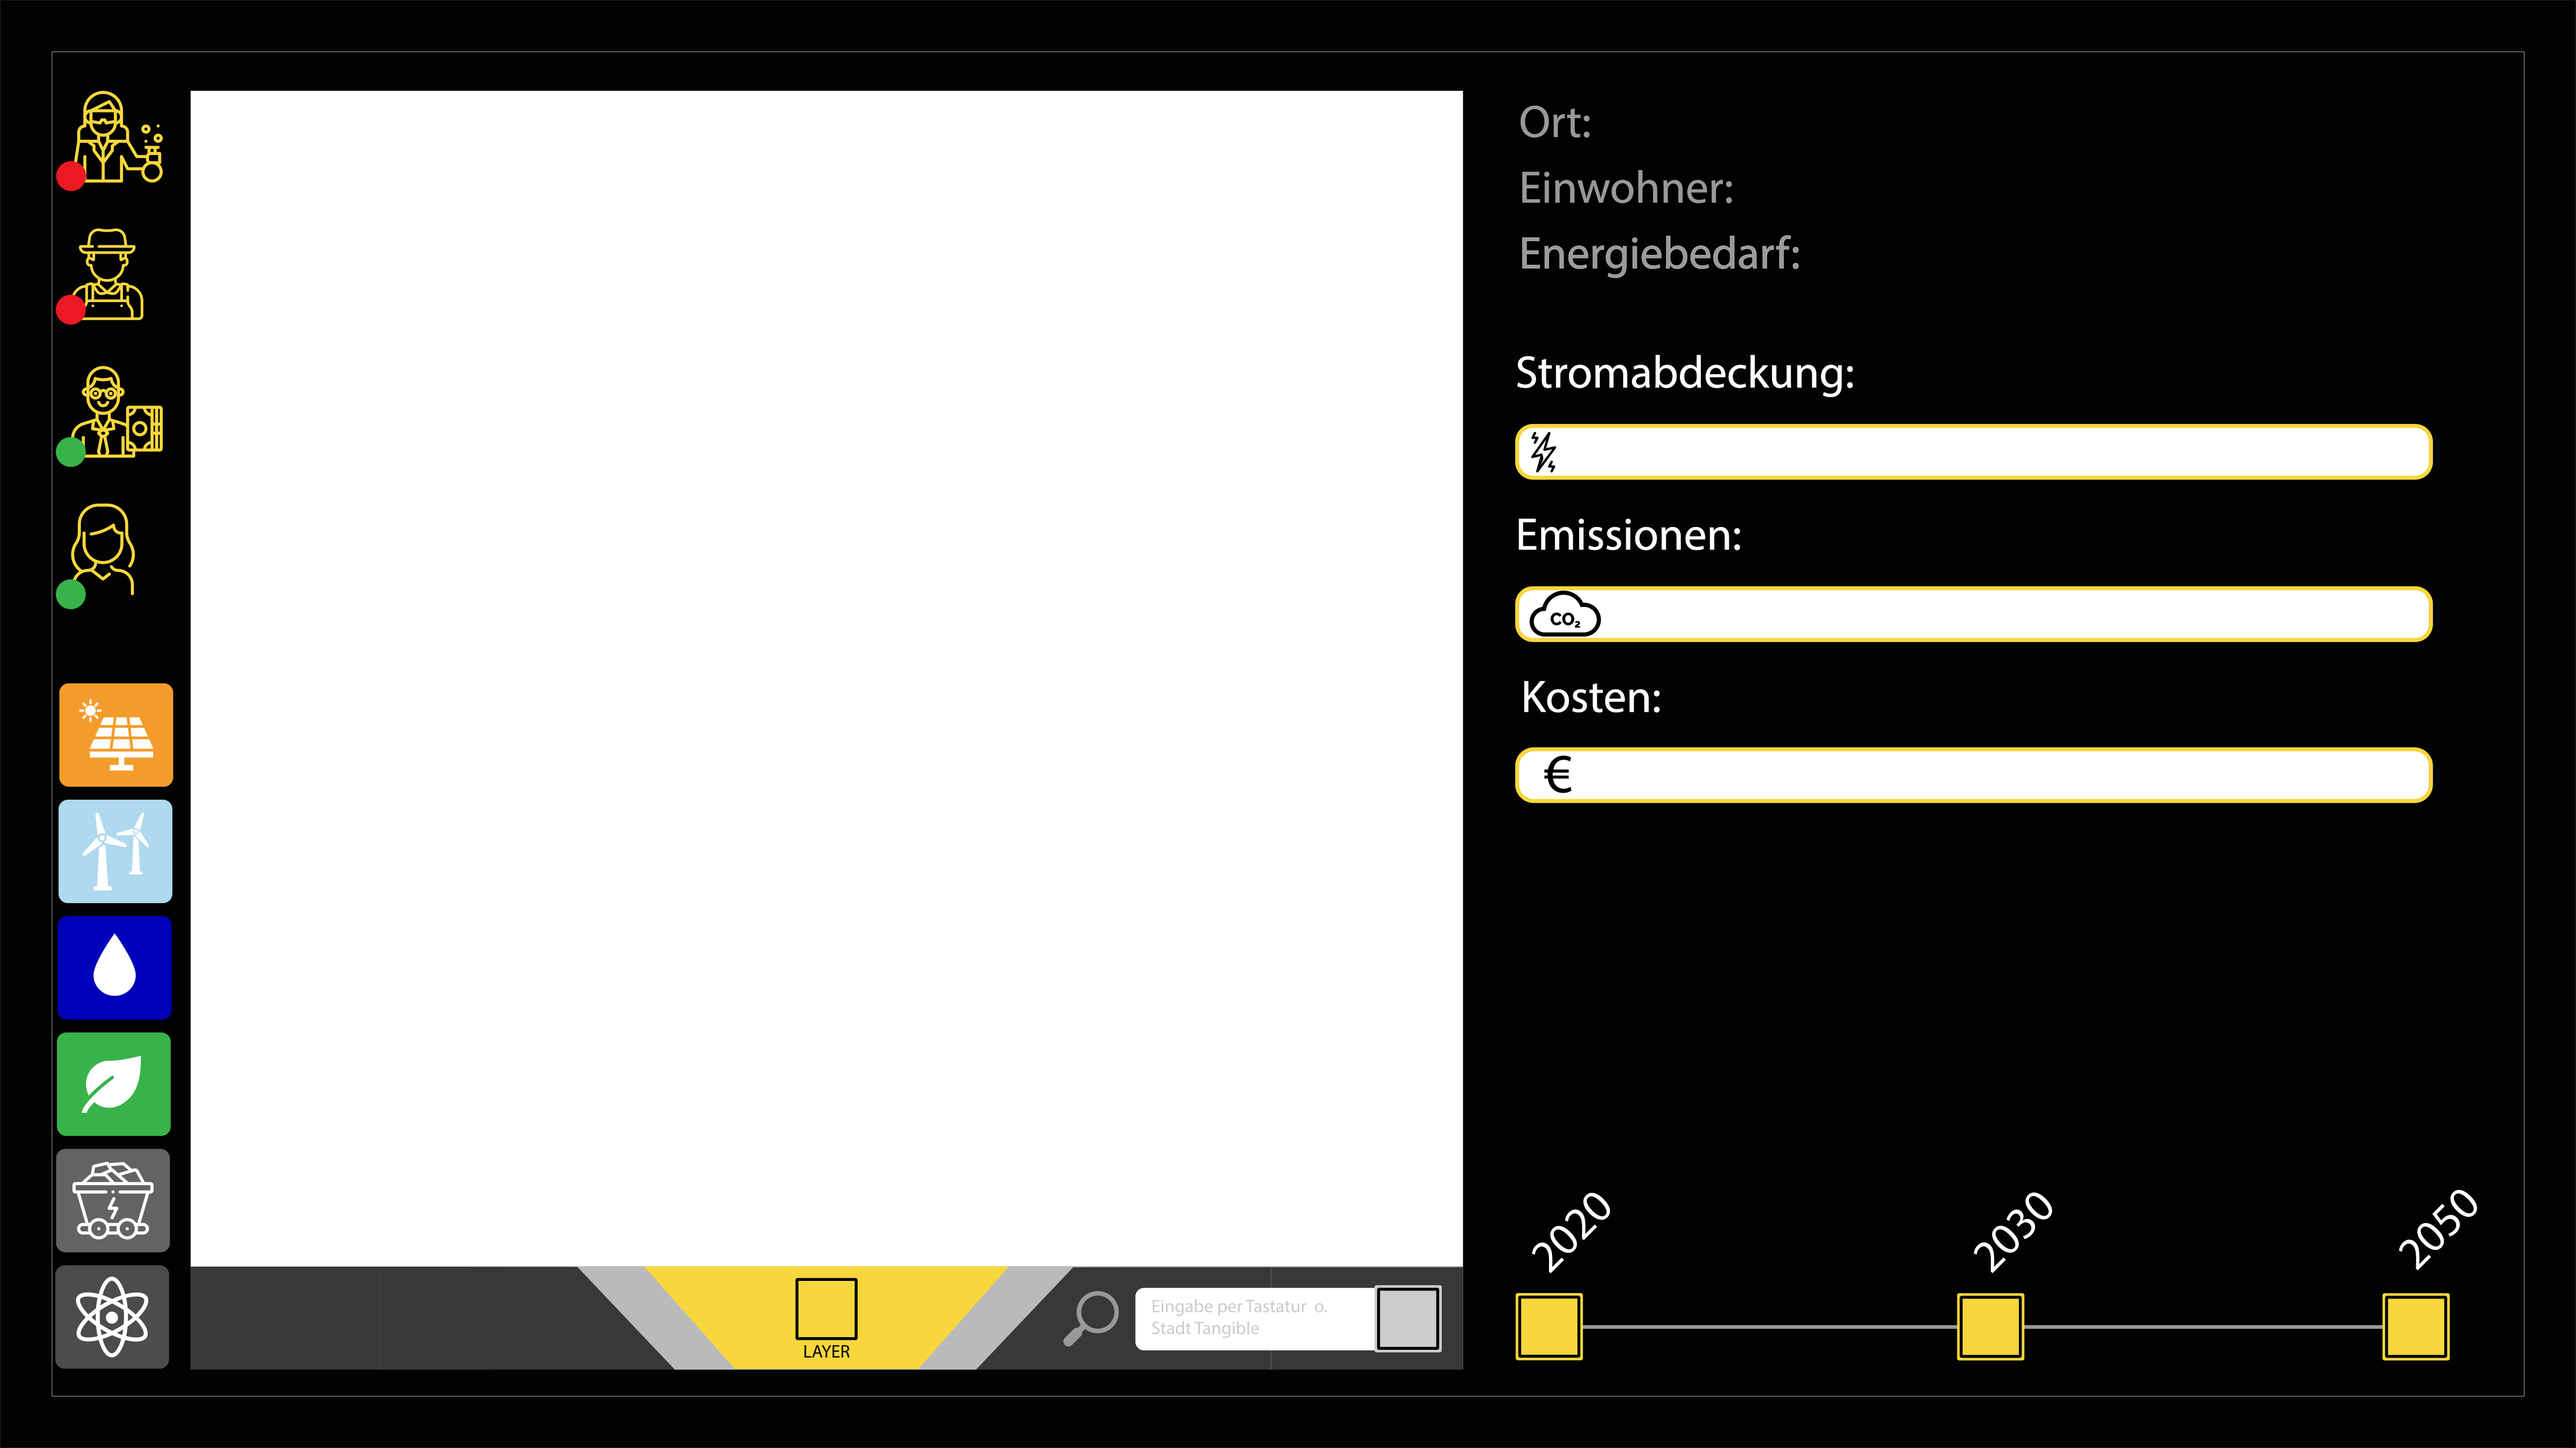
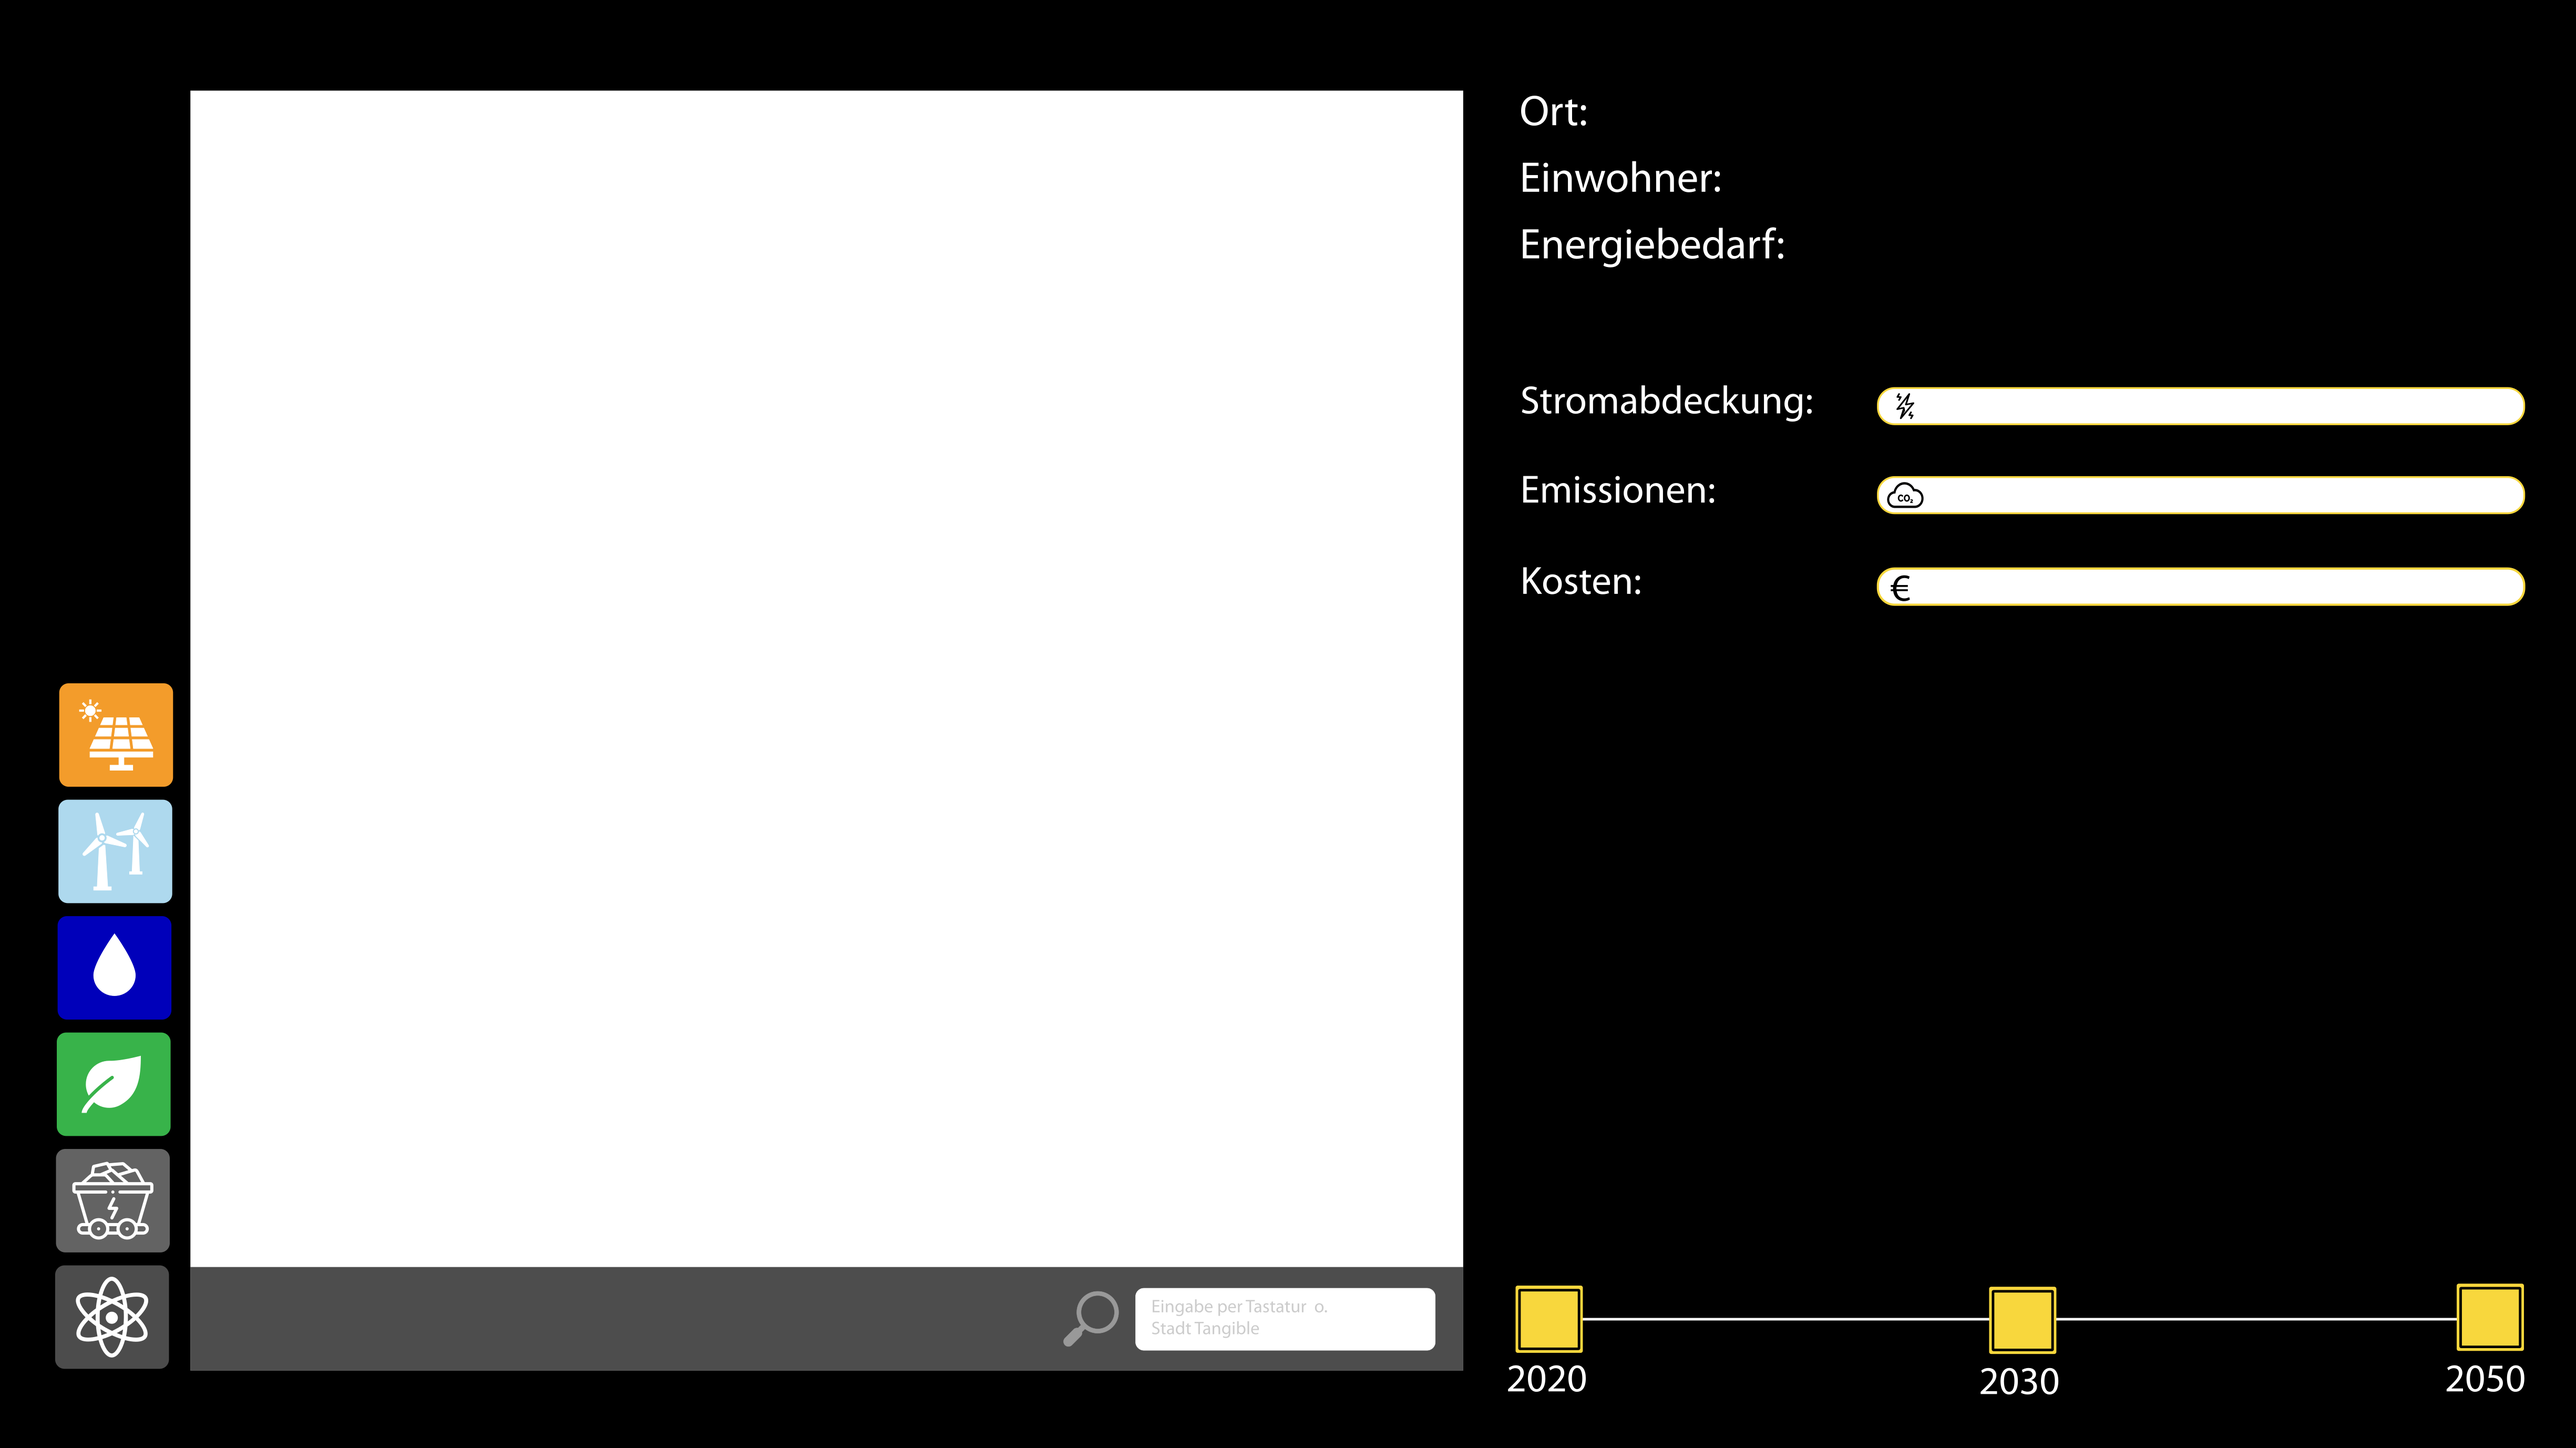
update UI

diff --git a/energy_app/dynamic_ui.py b/energy_app/dynamic_ui.py
@@ -83,7 +83,7 @@ class UI:
                coverage, emission, cost,
                coverage_goal, emission_goal, cost_goal, search_data, visible_statements):
         # black background
-        screen = Image.new('RGBA', (4902, 2756), color='black')
+        screen = Image.new('RGBA', (4902, 2755), color='black')
         # map (2423 x 2435 at 362, 172)
         if self.map_requires_rerender:
             cache = Cache("tiles_cache")
@@ -96,12 +96,12 @@ class UI:
             self.map_requires_rerender = False
         screen.paste(self.map_image, self.get_map_area()[0])
         # bars (1735 x 92 at 2887,814; 2887,1123; 2887,1429) rgb(248, 215, 61)
-        bar_w = 1735
-        bar_h = 92
-        bar_x = 2887
-        bar_1 = 814
-        bar_2 = 1123
-        bar_3 = 1429
+        bar_w = 1231
+        bar_h = 70
+        bar_x = 3572
+        bar_1 = 738
+        bar_2 = 907
+        bar_3 = 1081
         bar_c = (248, 215, 61)
         draw_screen = ImageDraw.Draw(screen)
         draw_screen.rectangle((bar_x, bar_1, bar_x + bar_w * coverage, bar_1 + bar_h), bar_c)
@@ -111,10 +111,10 @@ class UI:
         screen.alpha_composite(self.static_layer)
         # text (87 at 3467,195;3467,320;3467,445)
         text_s = 87
-        text_1 = 195
-        text_2 = 320
-        text_3 = 445
-        text_x = 3467
+        text_1 = 180
+        text_2 = 310
+        text_3 = 435
+        text_x = 3500
         font = ImageFont.truetype('MyriadPro-Regular.otf', text_s)
         draw_screen.text((text_x, text_1), place, 'white', font)
         import locale
@@ -122,8 +122,8 @@ class UI:
         draw_screen.text((text_x, text_2), "{:n} Menschen".format(int(population)), 'white', font)
         draw_screen.text((text_x, text_3), "{:n} MWh".format(int(energy_consumption)), 'white', font)
         # lines (12 x 178) rgb(153,153,153)
-        line_w = 12
-        line_h = 178
+        line_w = 8
+        line_h = 120
         if coverage_goal >= 0:
             line_1_y = bar_1 - (line_h - bar_h) / 2
             line_1_x = bar_x + bar_w * coverage_goal
@@ -212,13 +212,13 @@ class UI:
         return self.place_selection_area
 
     def get_2020_area(self):
-        return (2883, 2461), (2883 + 129, 2461 + 129)
+        return (2883, 2446), (2883 + 129, 2446 + 129)
 
     def get_2030_area(self):
-        return (3723, 2461), (3723 + 129, 2461 + 129)
+        return (3784, 2448), (3784 + 129, 2448 + 129)
 
     def get_2050_area(self):
-        return (4532, 2461), (4532 + 129, 2461 + 129)
+        return (4674, 2442), (4674 + 129, 2442 + 129)
 
     def apply_water_overlay(self, base):
         # reverse geocode
